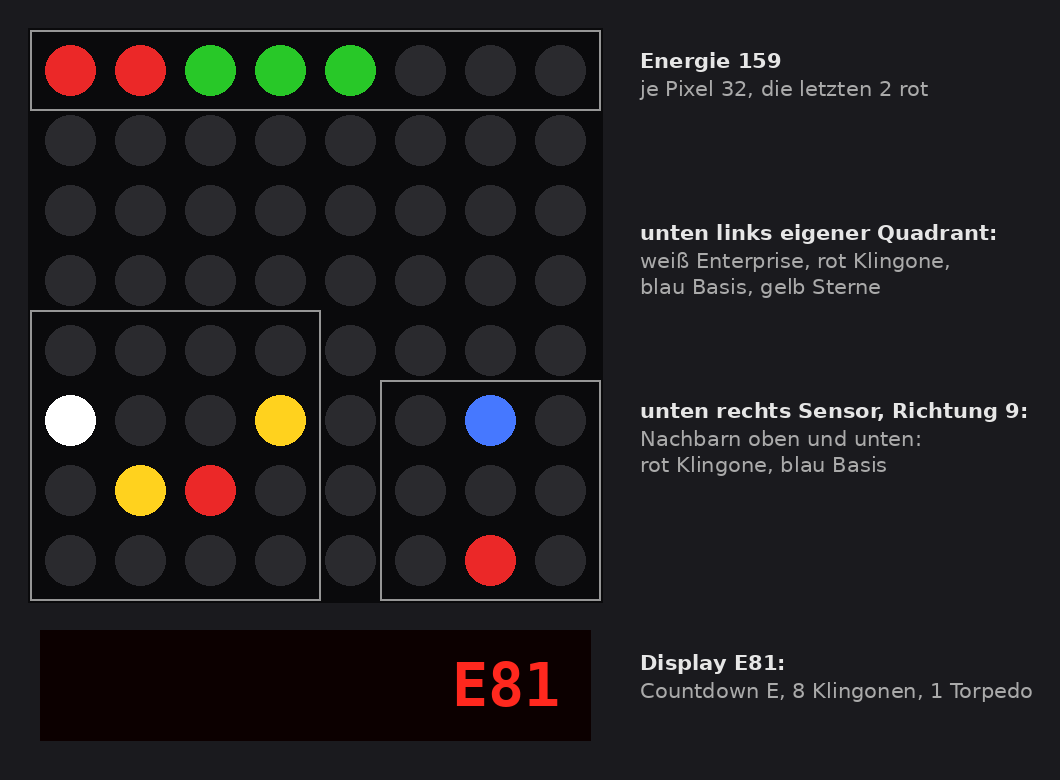
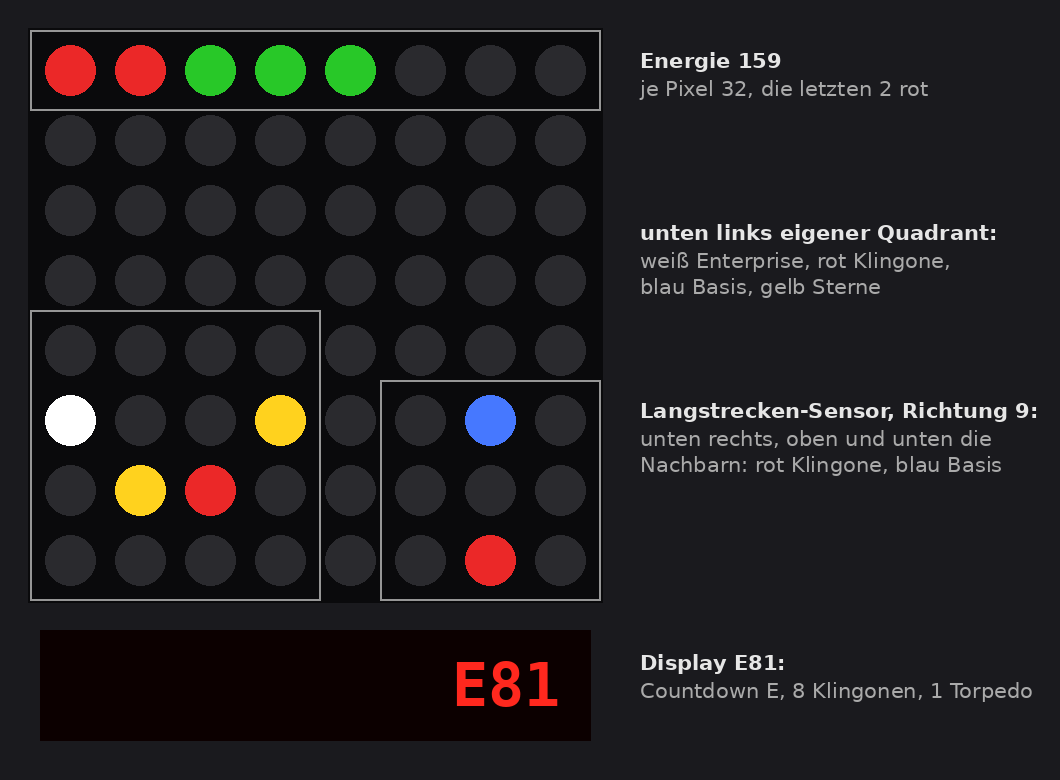
Langstrecken-Sensor statt Sensor; Beispielbild
Claude-Session: https://claude.ai/code/session_01U7feknepqYz7XUdFg7XNeb

Changed region(s): [[0.5915, 0.4923, 0.9651, 0.6154]]

diff --git a/README.md b/README.md
@@ -18,7 +18,7 @@ Die Galaxie hat 4 x 4 Quadranten zu je 4 x 4 Sektoren und ist ringförmig geschl
 
 Am Ende siehst du auf dem Display das Ergebnis: Klingonen 0 heißt gewonnen, und der Countdown zeigt die übrige Zeit. Countdown 0 heißt, die Zeit ist abgelaufen. Steht beides noch über 0, war die Energie zu Ende. Neues Spiel: RESET, RUN.
 
-Jede Aktion lässt die Zeit weiterlaufen, auch Sensor und Andocken. Danach schießt ein Klingone im Quadranten, dann zeichnet die Matrix neu.
+Jede Aktion lässt die Zeit weiterlaufen, auch Langstrecken-Sensor und Andocken. Danach schießt ein Klingone im Quadranten, dann zeichnet die Matrix neu.
 
 ## Start
 
@@ -28,17 +28,17 @@ Jede Aktion lässt die Zeit weiterlaufen, auch Sensor und Andocken. Danach schie
 
 Die Zeit zwischen RESET und RUN bestimmt die Galaxie. Neues Spiel: RESET, RUN.
 
-**Ohne Userscript** färbt das Programm Karte und Sensor selbst, nur der Energiebalken bleibt in der Standardfarbe der Matrix.
+**Ohne Userscript** färbt das Programm Karte und Langstrecken-Sensor selbst, nur der Energiebalken bleibt in der Standardfarbe der Matrix.
 
 ## Anzeige
 
-![Spielfeld nach einem Sensor-Scan](bilder/spielfeld.png)
+![Spielfeld nach einem Scan des Langstrecken-Sensors](bilder/spielfeld.png)
 
 | Wo | Was |
 |---|---|
 | Matrix, Zeile 7 | Energiebalken, je 32 Energie ein Pixel (8 Pixel = 224 bis 255, 1 Pixel = unter 32). Grün, die letzten beiden rot (unter 64) |
 | Matrix, unten links 4 x 4 | der eigene Quadrant: weiß Enterprise, rot Klingone, blau Basis, gelb Sterne |
-| Matrix, unten rechts 3 x 3 (Zeilen 0-2, Spalten 5-7) | Sensor: die Quadranten rund um den eigenen (Mitte), oben ist oben in der Galaxie. Es leuchten die beiden gewählten Nachbarn: rot Klingone, blau Basis, violett beides, sonst dunkel |
+| Matrix, unten rechts 3 x 3 (Zeilen 0-2, Spalten 5-7) | Langstrecken-Sensor: die Quadranten rund um den eigenen (Mitte), oben ist oben in der Galaxie. Es leuchten die beiden gewählten Nachbarn: rot Klingone, blau Basis, violett beides, sonst dunkel |
 | Anzeige des Microtronic | beim Warten auf eine Taste und am Ende drei Ziffern: Countdown F-0, Klingonen übrig, Torpedos. `E81` heißt Countdown E, 8 Klingonen, 1 Torpedo. Der Countdown zählt alle 3 bis 4 Aktionen eins herunter; nach 0 ist die Zeit abgelaufen |
 
 Die Anzeige im Display wird ausgeschaltet, solange die Matrix zeichnet.
@@ -50,7 +50,7 @@ Jeder Zug beginnt mit einer Taste am Microtronic.
 | Taste | Befehl | danach | Kosten | Wirkung |
 |---|---|---|---|---|
 | 0 | Navigation | Richtung, Entfernung 1-F | 4 Energie je Feld | fliegt Feld für Feld, hält vor Stern oder Klingone; in eine Basis = andocken |
-| 1 | Sensor | Richtung | 32 Energie | zeigt den Nachbarquadranten in dieser Richtung und den gegenüberliegenden, bis zur nächsten Aktion. Im Quadranten der Basis stört die Basis den Sensor: dort passiert nichts |
+| 1 | Langstrecken-Sensor | Richtung | 32 Energie | zeigt den Nachbarquadranten in dieser Richtung und den gegenüberliegenden, bis zur nächsten Aktion. Im Quadranten der Basis stört die Basis den Langstrecken-Sensor: dort passiert nichts |
 | 2 | Phaser | Richtung, Energie 1-F | 16 Energie je Stufe | der Strahl fliegt so viele Felder weit und trifft das erste Objekt; einen nahen Klingonen zerstört er mit höherer, einen fernen mit niedrigerer Wahrscheinlichkeit |
 | 3 | Torpedo | – | 1 Torpedo | zerstört den Klingonen im eigenen Quadranten meistens, aber nicht immer; ohne Gegner oder Torpedo geschieht nichts |
 
@@ -68,7 +68,7 @@ Vorsicht: Ein Phaser mit F kostet 240 Energie - die Selbstzerstörung für eine 
 
 ## Spieltipps
 
-- Der Sensor zeigt immer zwei gegenüberliegende Nachbarn: Richtung 6 die Galaxiezeile, 9 die Galaxiespalte, 8 und A die Diagonalen. Wer jeweils die Achse mit zwei unbekannten Quadranten wählt, spart viel Suchen.
+- Der Langstrecken-Sensor zeigt immer zwei gegenüberliegende Nachbarn: Richtung 6 die Galaxiezeile, 9 die Galaxiespalte, 8 und A die Diagonalen. Wer jeweils die Achse mit zwei unbekannten Quadranten wählt, spart viel Suchen.
 - Im Quadranten der Basis kann man nicht scannen. Wer die Nachbarquadranten der Basis kennen will, scannt vorher oder nachher von außerhalb.
 - Die Basis zuerst suchen. Wer sie kennt, kann rechtzeitig tanken; wer sie erst mit leerem Balken sucht, kommt meist nicht mehr an.
 - Umwege kosten mehr Energie als alles andere. Lieber früh tanken, beim fünften Pixel, als spät; wer erst beim letzten Pixel losfliegt, kommt fast nie an.
@@ -85,7 +85,7 @@ Alle Werte sind Konstanten im Programm und lassen sich ohne zusätzliche Schritt
 | Treffer des Torpedos | 71 | `14B` (`MOVI 4,B`) | trifft, wenn der Zufall 0-F mindestens 4 ist. `10B` = immer, höhere Werte = seltener |
 | Zeitlimit | 1F | `55A` (`ADDI 5,A`) | je Aktion + 5, Ende nach 52 Zählungen (51 Aktionen). `54A` = 63, `56A` = 42 Aktionen |
 | Energie bei Start und Andocken | 0E, 0F | `1F8`, `1F9` | FFh = 255; der Balken rechnet mit 32 je Pixel |
-| Sensor | 7E | `729` (`SUBI 2,9`) | 2 x 16 = 32 Energie |
+| Langstrecken-Sensor | 7E | `729` (`SUBI 2,9`) | 2 x 16 = 32 Energie |
 | Navigation | AE | `748` (`SUBI 4,8`) | 4 Energie je Feld; `738` = 3, `758` = 5 |
 
 ## Wie es gemacht ist
@@ -93,11 +93,11 @@ Alle Werte sind Konstanten im Programm und lassen sich ohne zusätzliche Schritt
 Der 2090 kennt keine indirekte Adressierung und nur eine Rücksprungadresse. 256 Felder Galaxie kann er also weder speichern noch durchsuchen. Deshalb wird die Galaxie bei Bedarf berechnet.
 
 - **Galaxie aus drei Ziffern.** `RND` am Anfang liest den Zähler, der seit RESET läuft. Aus seinen Ziffern D und E entstehen die Klingonen-Reihen D, E, nicht D, nicht E (je ein Bit je Quadrant, zusammen immer 8 Klingonen). Deshalb hat von zwei Quadranten derselben Spalte, zwei Galaxiezeilen auseinander, immer genau einer einen Klingonen. Zwei Startwerte, D + F und E, legen für jeden Quadranten die Sektoren von Klingone, Basis und Sternen fest. Die Basis liegt im Quadranten mit der Nummer E. Das ergibt bis zu 4096 verschiedene Galaxien: 256 Verteilungen der Klingonen auf die Quadranten, jede mit 16 Anordnungen innerhalb der Quadranten. Die oberste Ziffer F wächst nur langsam (etwa alle 1,25 Sekunden eins weiter), deshalb hängt die Vielfalt auch davon ab, wie lange man zwischen RESET und RUN wartet.
-- **Sensorfarbe gerechnet.** Die Farbe des Sensorpixels ist 8 bei einer Basis, sonst 0; ein Klingone addiert 3. So entstehen rot (3), blau (8) und violett (11) ohne zusätzlichen Befehl.
-- **Ein Unterprogramm für alles.** `LQ` (64 Schritte) berechnet zu einem beliebigen Feld den Quadranten und liefert, was auf dem Feld liegt. Flug, Phaser, Sensor und Bild benutzen es alle; der Sensor springt hinter den ersten beiden Befehlen ein und gibt das Feld direkt vor.
+- **Farben des Langstrecken-Sensors gerechnet.** Die Farbe eines Pixels im Langstrecken-Sensor ist 8 bei einer Basis, sonst 0; ein Klingone addiert 3. So entstehen rot (3), blau (8) und violett (11) ohne zusätzlichen Befehl.
+- **Ein Unterprogramm für alles.** `LQ` (64 Schritte) berechnet zu einem beliebigen Feld den Quadranten und liefert, was auf dem Feld liegt. Flug, Phaser, Langstrecken-Sensor und Bild benutzen es alle; der Langstrecken-Sensor springt hinter den ersten beiden Befehlen ein und gibt das Feld direkt vor.
 - **Reihen drehen statt adressieren.** Die vier Klingonen-Reihen liegen in M0-M3. Um Reihe y zu lesen, dreht das Programm die vier Register, bis sie in M0 liegt, und merkt sich den Drehstand.
 - **Energie als Linie.** Der Balken ist ein einziger Linienbefehl der Matrix bis zum Pixel Energie / 32. Das ist die obere Ziffer der Energie, einmal nach rechts geschoben: zwei Befehle statt einer Schleife. Die Farben der Zeile setzt das Userscript; das Programm schaltet die Pixel nur an und aus.
-- **Sensor ohne Tabelle.** Die Matrixzeile des Sensors ist dy + 1 (Zeilen 0 bis 2); dieselbe Zahl mal 4 minus 4 ist der Versatz −4, 0 oder +4 zum Nachbarquadranten. Die Gegenrichtung ist 2 minus Zeile und −dx; ein Zähler in R0 sorgt für genau zwei Durchgänge.
+- **Langstrecken-Sensor ohne Tabelle.** Die Matrixzeile des Langstrecken-Sensors ist dy + 1 (Zeilen 0 bis 2); dieselbe Zahl mal 4 minus 4 ist der Versatz −4, 0 oder +4 zum Nachbarquadranten. Die Gegenrichtung ist 2 minus Zeile und −dx; ein Zähler in R0 sorgt für genau zwei Durchgänge.
 - **Ein Würfel für beide Waffen.** Der Phaser merkt sich seine Stufen in R7; beim Treffer ist R7 minus der Rest in R5 die Entfernung. Torpedo und Phaser legen ihre Schwelle (4 bzw. Entfernung) in RB ab und teilen sich den Trefferwurf: `RND`, Vergleich, bei einem Fehlschuss zurück ins Bild. Ob der Phaser überhaupt einen Klingonen erreicht hat, prüft `SUBI F,F`: nur bei F borgt es nicht.
 - **Torpedo mit Übertrag.** `SUBI 1,C` zieht einen Torpedo ab; war keiner mehr da, macht `ADC C` aus F wieder 0 und lässt den Übertrag stehen, der den Schuss abbricht. Das spart die getrennte Abfrage.
 - **Bank offen lassen.** Treffer des Klingonen, Sternzeit und Energiebalken laufen in einem Stück in der Bank (M8-MF). Der Matrixbefehl braucht nur R4 bis R7 und funktioniert deshalb auch dort; das spart vier Bankwechsel und zwei Unterprogramme.
